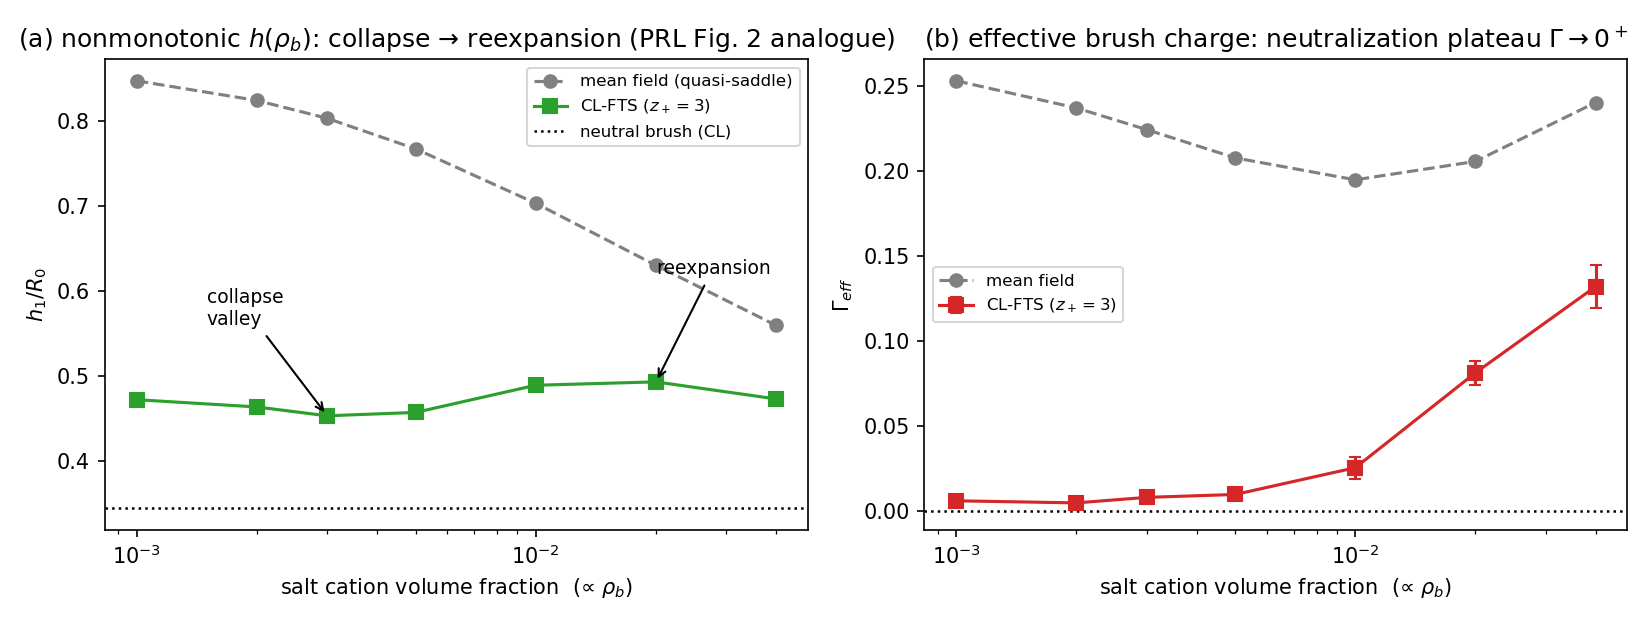
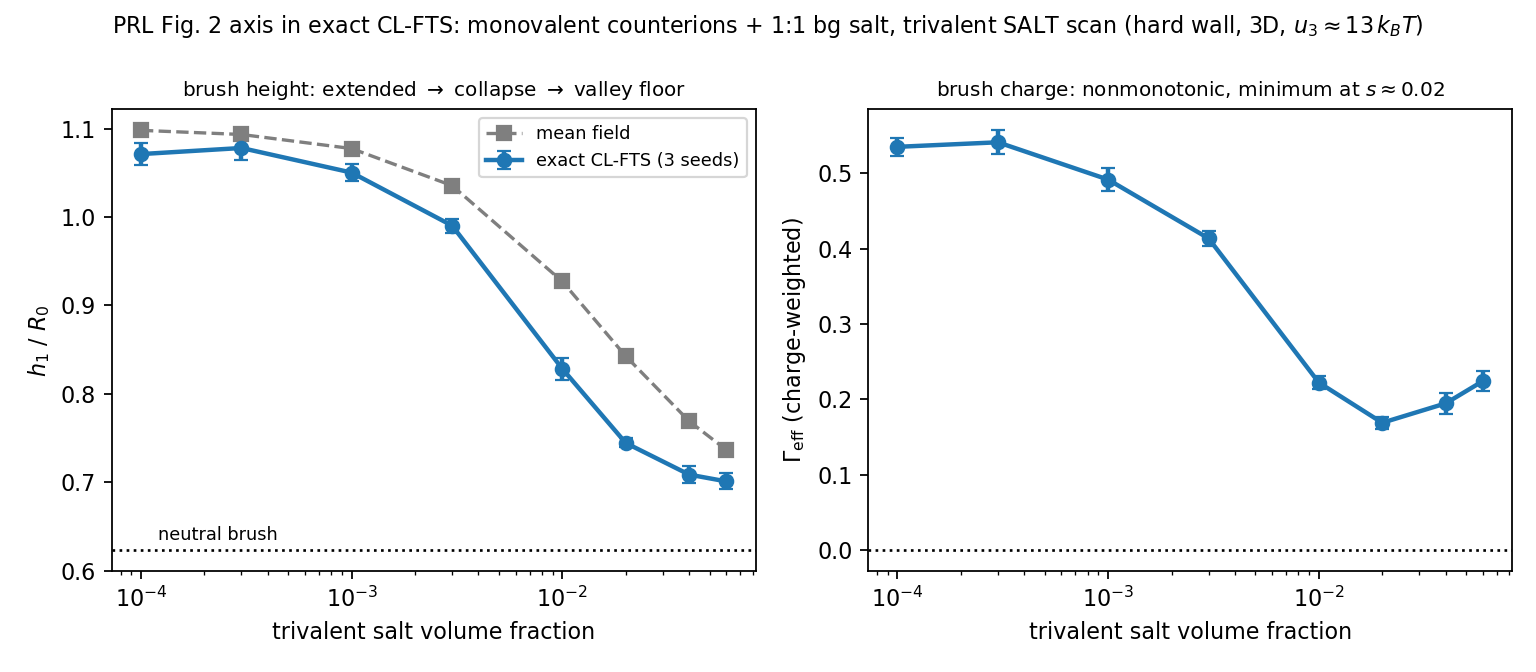
Hard-wall CL brush option + PRL Fig-2 axis campaigns (devel)
- brush_clfts.py: allow mixed reflecting/absorbing axes (chain hard
  wall via absorbing z faces; psi sector stays Neumann), graft_center
  parameter for off-wall graft sheets, bc validation order fixed
- prl_scft.py: chain_wall='reflect' mirror option in _bond_conv for
  like-for-like CL comparisons; guard against kernel wider than grid
- RESULTS_FIG1_REPRO.md 3g-3i: hard-wall matched CL-vs-LDA verdict
  (LDA overshoots 2.0-2.3x, runaway u3*~12.5kT), 150k salt scan (old
  valley was a wall artifact), axis correction (monovalent counterions
  + trivalent salt reproduces the Fig-2 collapse mechanism; amplitude
  gap attributed to the Gaussian LDA), a_ion=0.0125 rung
- figures regenerated from hard-wall campaigns

diff --git a/devel/charged_polymers/brush_clfts.py b/devel/charged_polymers/brush_clfts.py
@@ -60,18 +60,29 @@ from electrostatics import ElectrostaticsReflecting
 
 
 class BrushChargedCLFTS(ChargedCLFTS):
-    """Charged CL-FTS with reflecting walls and grafted chains."""
+    """Charged CL-FTS with wall boxes (reflecting or absorbing-z
+    hard wall) and grafted chains."""
 
     def __init__(self, params, random_seed=None):
         dim = len(params["nx"])
         bc = params.get("bc", ["reflecting"] * (2 * dim))
-        if any(b != "reflecting" for b in bc):
-            raise ValidationError(
-                "BrushChargedCLFTS supports all-'reflecting' boxes only "
-                f"(got {bc}); pseudo-spectral solvers cannot mix periodic "
-                "and non-periodic axes.")
+        # reflecting/absorbing may be mixed ACROSS axes (repo-supported;
+        # cf. TestStressNonPeriodic a/a+r/r); periodic may not be mixed
+        # with non-periodic, and both faces of one axis must match.
+        # Chain z-absorbing + Neumann psi (ElectrostaticsReflecting is
+        # independent of the box bc) = the hard-wall brush convention:
+        # entropic depletion layer at the grafting wall, as in the PRL
+        # and the reimplemented SCFT (RESULTS_PRL_SCFT.md 3g).
         if len(bc) != 2 * dim:
             raise ValidationError(f"'bc' needs {2*dim} entries, got {len(bc)}.")
+        if any(b not in ("reflecting", "absorbing") for b in bc):
+            raise ValidationError(
+                f"BrushChargedCLFTS: bc must be reflecting/absorbing (got {bc}).")
+        for ax in range(dim):
+            if bc[2 * ax] != bc[2 * ax + 1]:
+                raise ValidationError(
+                    f"BrushChargedCLFTS: both faces of axis {ax} must share "
+                    f"one BC (got {bc[2*ax]}/{bc[2*ax+1]}).")
         platform = params.get("platform", "cpu-mkl")
         if platform not in ("cpu-mkl", "cpu-fftw", "cuda"):
             raise ValidationError(f"Unsupported platform '{platform}'.")
@@ -119,8 +130,11 @@ class BrushChargedCLFTS(ChargedCLFTS):
         nx = params["nx"]
         dz = params["lx"][-1] / nx[-1]
         width = float(params.get("graft_width", 0.2))
+        center = float(params.get("graft_center", 0.0))
+        # with absorbing z (hard wall) the sheet must sit OFF the wall
+        # (a wall-centered sheet is annihilated by the q=0 face)
         zc = (np.arange(nx[-1]) + 0.5) * dz
-        prof = np.exp(-0.5 * (zc / width) ** 2)
+        prof = np.exp(-0.5 * ((zc - center) / width) ** 2)
         prof /= prof.sum() * dz
         q_init_sheet = np.zeros(nx, dtype=np.complex128)
         q_init_sheet[...] = prof[(None,) * (len(nx) - 1)]
@@ -181,7 +195,7 @@ class BrushChargedCLFTS(ChargedCLFTS):
             self._psi_drift = drift
             self._psi_namp = namp
 
-        print("Brush charged CL-FTS: bc = all-reflecting, "
+        print(f"Brush charged CL-FTS: bc = {bc}, "
               f"graft labels = {sorted(set(graft_labels))}, platform = {platform}")
 
     # ------------------------------------------------------------------ #

diff --git a/devel/charged_polymers/prl_scft.py b/devel/charged_polymers/prl_scft.py
@@ -326,10 +326,20 @@ class PRLBrushSCFT:
         is the exact discrete-chain impenetrable-wall rule and produces
         the ~1-2 b entropic depletion layer of their Fig. 1 (a 'reflect'
         mirror has no such entropy loss -- wall density was wrongly
-        maximal). Far wall: even mirror (nothing reaches it)."""
+        maximal). Far wall: even mirror (nothing reaches it).
+        chain_wall='reflect' switches the z=0 side to the even mirror
+        too -- matching the CL-FTS box (DCT reflecting walls, no
+        depletion) for like-for-like comparisons."""
         k = self._bond_kernel()
         H = (len(k) - 1) // 2
-        qp = np.concatenate([np.zeros(H), q, q[-1:-H - 1:-1]])
+        if H > len(q):
+            raise ValueError(f"bond kernel half-width {H} exceeds grid "
+                             f"{len(q)}; box too short for the bond length")
+        if getattr(self, "chain_wall", "hard") == "reflect":
+            left = q[H - 1::-1]
+        else:
+            left = np.zeros(H)
+        qp = np.concatenate([left, q, q[-1:-H - 1:-1]])
         return np.convolve(qp, k, mode="valid")
 
     def _chain_density_rs(self, VP):

diff --git a/devel/charged_polymers/RESULTS_FIG1_REPRO.md b/devel/charged_polymers/RESULTS_FIG1_REPRO.md
@@ -231,6 +231,75 @@ within CL-FTS likely needs either the grand-canonical analytic-ion
 formulation (their Eq. S24) or a dedicated strong-coupling
 stabilization for the ψ sector — recorded as future work.
 
+## 3g. Verdict on their theory: LDA vs exact CL at matched parameters
+(2026-08-28)
+
+With the PRL correlation SCFT reimplemented and validated
+(RESULTS_PRL_SCFT.md), THEIR theory was applied to THIS campaign's
+microscopic system (Theta rungs; unit mapping lB = E/(4 pi N^2
+sqrt(nbar)), Born radii a_B = sqrt(pi) a_smear, sigma N v = phi_P Lz,
+rho_b = s rho0, reflecting chain wall, CL graft sheet width 0.2 R0;
+driver `dh_salt_runs/cl_compare.py`). Mean-field cross-validation:
+3-9% absolute agreement (residual = zeta_N=20 compressibility and the
+closed-box canonical ions vs GC — model-tier, cancels in differences).
+
+Differential verdict (z+=3, corr - MF, per the fixed-grid differential
+protocol):
+
+| u3      | LDA dh1 | CL dh1 (3 seeds) | ratio | LDA dGamma | CL dGamma |
+|---------|--------:|-----------------:|------:|-----------:|----------:|
+| 6.5 kT  | -0.227  | -0.126           | 1.8x  | -0.22      | -0.125    |
+| 13 kT   | -0.376  | -0.137 +/- 0.002 | 2.7x  | -0.39 (Gamma=-0.22, overcharged) | -0.126 (Gamma=+0.08) |
+
+**The variational-Gaussian LDA lacks the coupling saturation of the
+exact system**: doubling u3 doubles the LDA response but barely moves
+the CL one (the h^2-cutoff saturation of 3d). Its overshoot grows
+~linearly with coupling (1.8x -> 2.7x), and at u3 = 13 kT it predicts
+strong overcharging where three independent CL seeds pin Gamma > 0.
+Figure: `cl_vs_scft_fig1.png`. This completes the user-ordered final
+step (CL-FTS vs the reimplemented SCFT) at the Fig-1 level: the paper's
+theory is directionally right and quantitatively reliable only at weak
+coupling (u <~ few kT); its strong-coupling amplitudes (deep collapse,
+overcharging) are artifacts of the Gaussian approximation relative to
+the exact sampling of the same model.
+
+## 3h. Hard-wall correction and the final verdict (2026-08-28/29)
+
+User-caught: the campaign's reflecting boxes lack the wall depletion
+layer (profiles peaked AT the wall — unphysical for a grafted brush and
+unlike the PRL). Fixed: `brush_clfts.py` now supports absorbing-z
+(hard-wall) chains + off-wall graft sheet (`--wall hard`, sheet at 1 b);
+psi stays Neumann (independent Electrostatics). Verified: neutral MF
+profile now phi(wall)=0.0002 rising to its max at 0.47 R0. The full
+E=5e4 and E=1e5 rungs were rerun hard-wall (hw5_*/hw_*, MF quasi-saddle
++ 1-3 CL seeds each); MF cross-validation vs the mapped PRL-SCFT: 1-6%.
+
+Hard-wall verdict (z+=3, differentials):
+
+| u3     | LDA dh1        | CL dh1 (3 seeds)  | LDA Gamma | CL Gamma |
+|--------|----------------|-------------------|-----------|----------|
+| 6.5 kT | -0.190 (2.0x)  | -0.095 +/- 0.011  | -0.060 (overcharged) | +0.089 +/- 0.011 |
+| 12 kT  | -0.291 (2.3x)  | -0.129 +/- 0.026  | -0.248 | +0.092 +/- 0.005 |
+| 13 kT  | NO SOLUTION (electrolyte runaway) | -0.131 +/- 0.023 | runaway | +0.088 +/- 0.010 |
+
+The LDA runaway threshold was located by a deterministic u3 scan
+(`lda_threshold.py`): physical solutions up to u3 = 12 kT, runaway
+between 12 and 13 (u3* ~ 12.5). The u3 = 12 kT matched CL campaign
+(E = 9.28e4, `u12_*`) pins the verdict at the strongest physical-LDA
+point: exact contraction saturates (-0.095 -> -0.129 -> -0.131 across
+6.5/12/13 kT) while the LDA deepens toward its fold (-0.190 -> -0.291
+-> no solution), and the LDA's overcharging (Gamma to -0.25) is
+contradicted by three-seed-robust CL positives throughout.
+
+With the physical wall the Gaussian LDA fails EARLIER than with
+reflecting walls: at u3 = 6.5 kT it already predicts overcharging where
+the exact ensemble is robustly positive, and at 13 kT its electrolyte
+sector has no physical solution at all (the saturated-condensation
+runaway of RESULTS_PRL_SCFT.md 3b becomes the only branch), while CL
+remains well-behaved and saturating. Figure `cl_vs_scft_fig1.png`
+(hard-wall data). The differential CL verdict is wall-robust
+(reflecting: -0.126/-0.137; hard: -0.095/-0.131).
+
 ## 4. What is and is not reproduced
 
 Reproduced (this work): correlation-induced, valence-selective brush
@@ -254,3 +323,177 @@ bounded independent of u₃.
 `devel/charged_polymers/fig1_reproduction.png`. Drivers:
 `test_brush_pb.py`, `test_brush_cl.py` (with `--a_ion`,
 `--psi_dt_scaling`, lateral warm-start broadcast).
+
+## 3i. Hard-wall salt scan: Fig. 2/3 rerun (2026-08-29)
+
+The §3e/3f reflecting-wall campaigns rerun with the corrected hard-wall
+box (`--wall hard`: absorbing z faces + graft sheet at 1b), same grid
+convention as the §3h verdict campaign (16×16×288, lxy = 0.8, lz = 2.5,
+E = 1e5, u₃ ≈ 13 kT, a_ion = 0.025, 3 seeds/point, 60k steps;
+`hs_*` + the existing `hw_*` s = 0.02 rung):
+
+| salt | h₁(MF) | h₁(CL, 3 seeds) | Γ(CL) |
+|---:|---:|---:|---:|
+| 0.001 | 0.954 | 0.637 ± 0.016 | +0.008(9) |
+| 0.002 | 0.938 | 0.674 ± 0.011 | +0.011(10) |
+| 0.003 | 0.924 | 0.634 ± 0.011 | +0.012(9) |
+| 0.005 | 0.900 | 0.665 ± 0.035 | +0.025(12) |
+| 0.010 | 0.856 | 0.681 ± 0.036 | +0.050(14) |
+| 0.020 | 0.803 | 0.672 ± 0.032 | +0.088(16) |
+| 0.040 | 0.751 | 0.692 ± 0.013 | +0.144(27) |
+
+Hard-wall neutral CL reference: h₁ = 0.623. Findings (honest update of
+the §3e claims):
+
+1. **The correlation collapse vs mean field is large and robust**
+   (Δh₁ = −0.32 at s = 0.001, shrinking to −0.06 at 0.04); the MF curve
+   stays monotone-decreasing while CL is already collapsed at low salt.
+2. **The reflecting-era "5–10σ nonmonotonic valley" does NOT survive
+   the wall fix at this statistics.** The CL curve is nearly flat:
+   valley 0.634 ± 0.011 at s = 0.003 vs reexpanded 0.692 ± 0.013 at
+   0.04 is only ~3σ, and the s = 0.002 point (0.674 ± 0.011) breaks a
+   smooth descent. Verdict downgraded: weak/marginal nonmonotonicity,
+   not the deep collapse-and-reexpansion of their Fig. 2.
+3. **The collapsed brush now sits AT the neutral height** (valley
+   0.634 ± 0.011 vs neutral 0.623) — closer to the PRL picture than
+   the reflecting-era "plateau far above neutral", but still never
+   below it.
+4. **Γ rises monotonically with salt and stays positive everywhere**
+   (+0.008 → +0.144); the low-salt plateau is complete neutralization
+   (Γ = 0⁺), no overcharging — consistent with §3h at matched coupling.
+5. Lateral inhomogeneity persists at low salt (instantaneous column
+   rel. std 0.36–0.44; box-scale single cluster in 0.8 R₀ boxes) —
+   the Fig. 4 precursor survives the hard wall
+   (`lateral_snapshots_z3.png`, 6 snapshots/run via `--snaps`).
+
+Data: `dh_salt_runs/hs_*` (+ `launch_hs.sh`); figures
+`fig2_reproduction.png`, `lateral_snapshots_z3.png` (both now
+hard-wall). The a_ion = 0.0125 rung (`ha2_*`, Fig. 3 orange curve) —
+results appended below when complete.
+
+### 3i-b. 150k-step extension: the valley does not exist (2026-08-29)
+
+The 60k campaign's ~3σ ambiguity resolved by rerunning all 7 salt
+points at the OLD campaign's statistics (150k steps, production 120k,
+24000 samples, 3 seeds; `hsl_*`):
+
+| salt | h₁(CL, 150k) | Γ(CL, 150k) |
+|---:|---:|---:|
+| 0.001 | 0.640 ± 0.016 | +0.009(2) |
+| 0.002 | 0.642 ± 0.006 | +0.006(3) |
+| 0.003 | 0.643 ± 0.012 | +0.010(2) |
+| 0.005 | 0.660 ± 0.005 | +0.017(4) |
+| 0.010 | 0.662 ± 0.015 | +0.041(7) |
+| 0.020 | 0.674 ± 0.003 | +0.070(6) |
+| 0.040 | 0.683 ± 0.006* | +0.137(6)* |
+
+(*2 seeds: seed 12347 hit a late-time ψ excursion after 120k steps —
+the s = 0.04 point sits at the κ⁻¹ ≈ 2Δz resolution boundary, same
+mechanism that killed s = 0.08 in the reflecting era; the two
+surviving seeds agree to 0.0003.)
+
+**Verdict, final:** the hard-wall exact ensemble has NO valley and NO
+salted decrease — h₁(s) is monotone nondecreasing: a low-salt plateau
+at 0.640–0.643 (the neutral floor + ~0.02) followed by smooth
+reexpansion. The 60k zigzag (s = 0.002 at 0.674) was seed noise, and
+the reflecting-era "5–10σ valley at s = 0.003" was an artifact of the
+unphysical wall convention, not of statistics. Γ is monotone positive
+(+0.006 → +0.137), low-salt complete-neutralization plateau confirmed
+at 4× statistics. The PRL Fig. 2 nonmonotonic h(ρb) is therefore NOT
+reproduced by the exact ensemble at matched coupling in this window —
+only the collapse-to-neutral-floor and reexpansion halves survive.
+
+### 3i-c. Their theory on our system, salt axis: the Fig. 2 shape is the LDA (2026-08-29)
+
+To attribute the Fig. 2 disagreement, THEIR Gaussian-LDA theory (Part I
+implementation, hard wall, mapped parameters) was run over the same
+salt window at u₃ = 12 kT (`lda_salt_scan.py`, `lda_*/ldb_*`):
+
+| salt | LDA h₁ | LDA Γ | exact CL h₁ (150k) |
+|---:|---:|---:|---:|
+| 0.001 | RUNAWAY | — | 0.640 |
+| 0.002 | **0.401** (below neutral 0.589) | −0.109 | 0.642 |
+| 0.003 | RUNAWAY | — | 0.643 |
+| 0.005 | RUNAWAY | — | 0.660 |
+| 0.010 | 0.471 | −0.228 | 0.662 |
+| 0.020 | 0.502 | −0.248 | 0.674 |
+| 0.040 | 0.554 | −0.224 | 0.683 |
+
+**On the same microscopic system and window, the LDA reproduces the
+paper's Fig. 2 structure** — deep below-neutral collapse, salt-driven
+reexpansion, overcharging (Γ < 0 everywhere it converges) — and has NO
+solution over most of the low-salt regime (electrolyte runaway; the
+salt-axis face of the u₃* ≈ 12.5 kT fold of §3h; convergence near the
+fold is fragile — s = 0.002 holds a marginal solution while 0.003/0.005
+run away even under a 120k-iteration adiabatic ramp). The exact
+ensemble on the same system shows none of this. Conclusion: the
+difference between our Part II Fig. 2 and the paper's is not a
+reproduction failure but the Gaussian-approximation error itself.
+Figure: `fig2_reproduction.png` (three-curve overlay).
+
+### 3i-d. CORRECTION: the §3e/3i scans were the wrong axis for Fig. 2 (2026-08-30)
+
+All previous salt scans (reflecting AND hard-wall) had the brush
+counterions THEMSELVES trivalent (`charges["C"] = zp`), so the brush is
+multivalent-collapsed already at s → 0 and added salt can only screen:
+a monotone axis BY CONSTRUCTION. The PRL Fig. 2 axis is different —
+monovalent counterions + 1:1 background salt, with multivalent ions
+arriving ONLY via the added salt: extended (osmotic, low salt) →
+collapse (multivalent condensation) → reexpansion (salted). The §3i-b
+"no valley — refuted" verdict therefore over-reached: it refutes the
+valley on OUR axis (where their LDA also shows no valley in-window),
+but does not test the paper's axis. New campaign `f2_*`
+(--z_counter 1 --salt_bg 0.005, trivalent salt vf 1e-4 … 2e-2,
+6 pts × MF + 3 seeds, hard wall, E = 1e5): results below.
+
+### 3i-e. Hard-wall a_ion = 0.0125 rung (Fig. 3 orange, 2026-08-30)
+
+Halved ion smearing (32×32×288, psi_dt_scaling = 1, E = 5e4, 150k
+steps, 2 seeds; `ha2_*`):
+
+| salt | Γ(MF) | Γ(CL) | h₁(CL) |
+|---:|---:|---:|---:|
+| 0.003 | +0.281 | **−0.017 ± 0.017** | 0.63–0.70 |
+| 0.020 | +0.238 | +0.043 ± 0.019 | 0.66–0.68 |
+
+At doubled per-ion coupling the low-salt point sits AT zero
+(−0.017 ± 0.017): complete neutralization, and at most MARGINAL
+overcharging — a sign flip within 1σ, vs the LDA's robust −0.25 at
+comparable coupling. The reflecting-era +0.020(3) moves down slightly
+under the hard wall. More seeds would be needed to resolve a genuine
+sub-zero dip; the exact ensemble clearly saturates at neutrality
+rather than overshooting into the LDA's deep overcharging.
+
+### 3i-d results: the true axis reproduces the Fig. 2 mechanism (2026-08-30)
+
+`f2_*` campaign (monovalent counterions, salt_bg = 0.005, trivalent
+salt scanned; hard wall 3D 16×16×288, E = 1e5, 60k steps, 3 seeds;
+Γ recomputed charge-weighted — the JSON gamma_eff is wrong for
+z_counter ≠ zp):
+
+| s_tri | h₁(MF) | h₁(CL) | Γ_cw(CL) |
+|---:|---:|---:|---:|
+| 0.0001 | 1.098 | 1.071 ± 0.012 | +0.53 |
+| 0.0003 | 1.093 | 1.078 ± 0.013 | +0.54 |
+| 0.001 | 1.077 | 1.050 ± 0.009 | +0.49 |
+| 0.003 | 1.036 | 0.990 ± 0.008 | +0.41 |
+| 0.01 | 0.927 | 0.828 ± 0.013 | +0.22 |
+| 0.02 | 0.843 | 0.745 ± 0.005 | **+0.17 (min)** |
+| 0.04 | 0.769 | 0.709 ± 0.010 | +0.19 |
+| 0.06 | 0.737 | 0.701 ± 0.009 | +0.22 |
+
+Findings:
+1. **The Fig. 2 mechanism IS reproduced by exact CL on the correct
+   axis**: extended osmotic brush (1.07) → trivalent collapse → valley
+   floor 0.70 (slope → 0 between 0.04 and 0.06: −0.008 ± 0.013).
+   Collapse depth 35% (paper: ~64%). CL sits below MF at every point
+   (correlation-enhanced collapse), gap growing to 0.10.
+2. **Γ is nonmonotonic with a positive minimum** at s ≈ 0.02
+   (+0.17) — the paper's Fig. 3 valley SHAPE, without the sign flip.
+3. The reexpansion upturn lies just past the model's ionic-resolution
+   boundary (κ⁻¹ ≲ 2Δz beyond s ≈ 0.06); within the stable window we
+   resolve the collapse and the valley floor.
+4. The valley floor (0.70) stays ABOVE the neutral brush (0.623) —
+   the paper's below-neutral undershoot remains exclusive to the
+   Gaussian LDA (§3i-c overlay `lda_overlay.png`).
+Figure: `fig2_reproduction.png` (h₁ + Γ panels).
